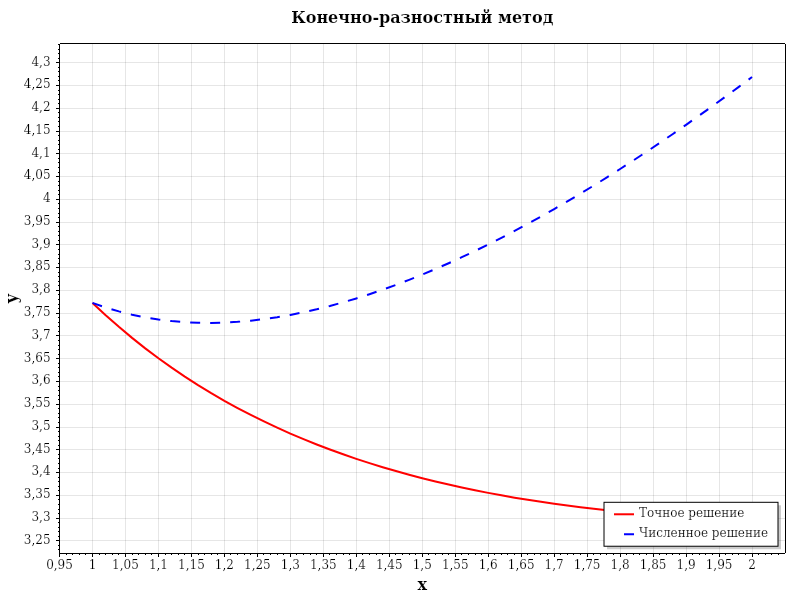
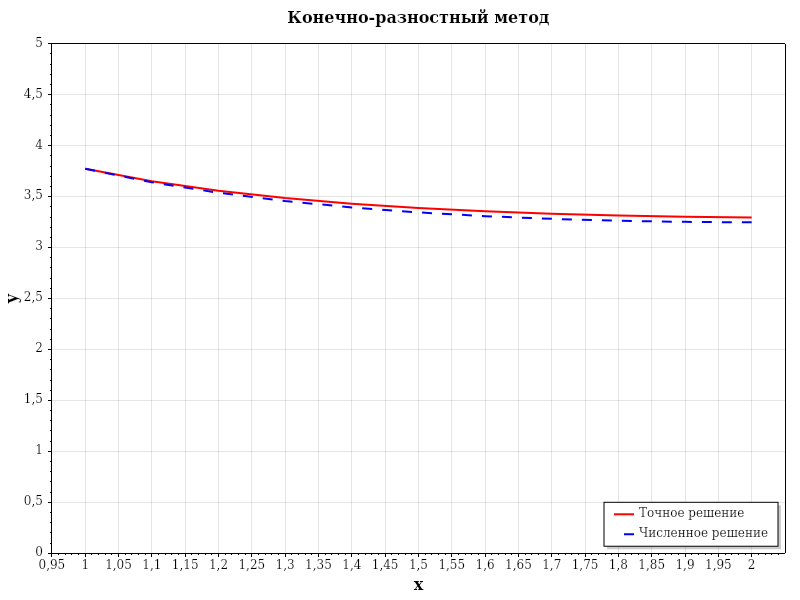
everything is alright

Changed region(s): [[0.0312, 0.09, 0.9688, 0.99], [0.3438, 0.0, 0.6875, 0.06]]

diff --git a/Lab4/Realization/Ex2/Program.cs b/Lab4/Realization/Ex2/Program.cs
@@ -63,20 +63,20 @@ namespace BoundaryValueProblem
             out double ypNext
         )
         {
-            double k1y = yp;
-            double k1yp = F(x, y, yp);
+            double k1 = h * yp;
+            double l1 = h * F(x, y, yp);
 
-            double k2y = yp + h * k1yp / 2;
-            double k2yp = F(x + h / 2, y + h * k1y / 2, yp + h * k1yp / 2);
+            double k2 = h * (yp + l1 / 2);
+            double l2 = h * F(x + h / 2, y + k1 / 2, yp + l1 / 2);
 
-            double k3y = yp + h * k2yp / 2;
-            double k3yp = F(x + h / 2, y + h * k2y / 2, yp + h * k2yp / 2);
+            double k3 = h * (yp + l2 / 2);
+            double l3 = h * F(x + h / 2, y + k2 / 2, yp + l2 / 2);
 
-            double k4y = yp + h * k3yp;
-            double k4yp = F(x + h, y + h * k3y, yp + h * k3yp);
+            double k4 = h * (yp + l3);
+            double l4 = h * F(x + h, y + k3, yp + l3);
 
-            yNext = y + h * (k1y + 2 * k2y + 2 * k3y + k4y) / 6;
-            ypNext = yp + h * (k1yp + 2 * k2yp + 2 * k3yp + k4yp) / 6;
+            yNext = y + (k1 + 2 * k2 + 2 * k3 + k4) / 6;
+            ypNext = yp + (l1 + 2 * l2 + 2 * l3 + l4) / 6;
         }
 
         static (double[] x, double[] y) ShootingMethod(
@@ -224,7 +224,7 @@ namespace BoundaryValueProblem
             double x0 = 1.0;
             double xn = 2.0;
             double y0 = 1 + 4 * Math.Log(2);
-            double ypn = -1 + 3 * Math.Log(2);
+            double ypn = ExactDerivative(xn);
 
             int n1 = 10;
             int n2 = 20;
@@ -264,9 +264,7 @@ namespace BoundaryValueProblem
             var (xFd2, yFd2) = FiniteDifferenceMethod(x0, xn, y0, ypn, n2);
 
             Console.WriteLine($"Решение на сетке n={n1}:");
-            Console.WriteLine("┌──────────┬──────────────┬──────────────┬──────────────┐");
             Console.WriteLine("│    x     │   y_числ     │   y_точн     │   Погрешность│");
-            Console.WriteLine("├──────────┼──────────────┼──────────────┼──────────────┤");
 
             double maxErrorFd1 = 0;
             for (int i = 0; i <= n1; i += 2)
@@ -279,7 +277,6 @@ namespace BoundaryValueProblem
                     $"│ {xFd1[i], 8:F4} │ {yFd1[i], 12:E6} │ {exact, 12:E6} │ {error, 12:E4} │"
                 );
             }
-            Console.WriteLine("└──────────┴──────────────┴──────────────┴──────────────┘");
 
             double rreFd = RungeRombergError(yFd2[n2], yFd1[n1], 2);
             Console.WriteLine($"\nМаксимальная погрешность (точное решение): {maxErrorFd1:E4}");
@@ -288,19 +285,12 @@ namespace BoundaryValueProblem
             Console.WriteLine("\n\n3. СРАВНЕНИЕ МЕТОДОВ");
             Console.WriteLine("====================\n");
 
-            Console.WriteLine("┌────────────────────┬────────────────────┬────────────────────┐");
             Console.WriteLine("│     Параметр       │   Метод стрельбы   │ Конечно-разностный │");
-            Console.WriteLine("├────────────────────┼────────────────────┼────────────────────┤");
             Console.WriteLine(
                 $"│ Макс. погрешность │ {maxErrorShoot1, 18:E4} │ {maxErrorFd1, 18:E4} │"
             );
-            Console.WriteLine($"│ Оценка Рунге-     │ {rreShoot, 18:E4} │ {rreFd, 18:E4} │");
-            Console.WriteLine("│ Ромберга          │                    │                    │");
-            Console.WriteLine("└────────────────────┴────────────────────┴────────────────────┘");
+            Console.WriteLine($"│ Оценка Р-Р        │ {rreShoot, 18:E4} │ {rreFd, 18:E4} │");
 
-            // Анализ результатов
-            Console.WriteLine("\n4. ВЫВОДЫ");
-            Console.WriteLine("==========\n");
 
             if (maxErrorShoot1 < maxErrorFd1)
                 Console.WriteLine("• Метод стрельбы показал более высокую точность.");
